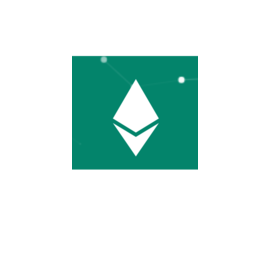
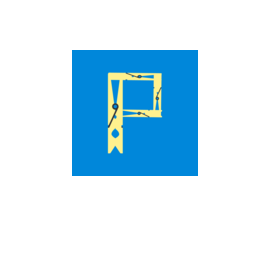
Update branding

Changed region(s): [[0.2667, 0.1778, 0.7407, 0.6519]]

diff --git a/public/index.html b/public/index.html
@@ -25,34 +25,31 @@
       sizes="16x16"
       href="%PUBLIC_URL%/favicon-16x16.png"
     />
-    <link rel="manifest" href="%PUBLIC_URL%/manifest.json" />
+    <link rel="manifest" href="%PUBLIC_URL%/site.webmanifest" />
     <link
       rel="mask-icon"
       href="%PUBLIC_URL%/safari-pinned-tab.svg"
-      color="#00846b"
+      color="#0087da"
     />
     <meta name="apple-mobile-web-app-title" content="PEG" />
     <meta name="application-name" content="PEG" />
-    <meta name="msapplication-TileColor" content="#00846b" />
-    <meta name="theme-color" content="#00846b" />
+    <meta name="msapplication-TileColor" content="#0087da" />
+    <meta name="theme-color" content="#0087da" />
 
     <meta property="og:title" content="PEG Stablecoin" />
     <meta property="og:site_name" content="PEG Stablecoin" />
     <meta property="og:url" content="https://pegstablecoin.com" />
-    <meta property="og:description" content="PEG is a decentralized dollar-pegged stablecoin that allows you to switch from Ether into PEG and vice versa. This is achieved in a single transaction and there are no fees." />
+    <meta
+      property="og:description"
+      content="PEG is a decentralized dollar-pegged stablecoin that allows you to switch from Ether into PEG and vice versa. This is achieved in a single transaction and there are no fees."
+    />
     <meta property="og:type" content="website" />
     <meta
       property="og:image"
       content="https://pegstablecoin.com/android-chrome-256x256.png"
     />
-    <meta
-      property="og:image:height"
-      content="256"
-    />
-    <meta
-      property="og:image:width"
-      content="256"
-    />
+    <meta property="og:image:height" content="256" />
+    <meta property="og:image:width" content="256" />
 
     <title>PEG Stablecoin</title>
   </head>
